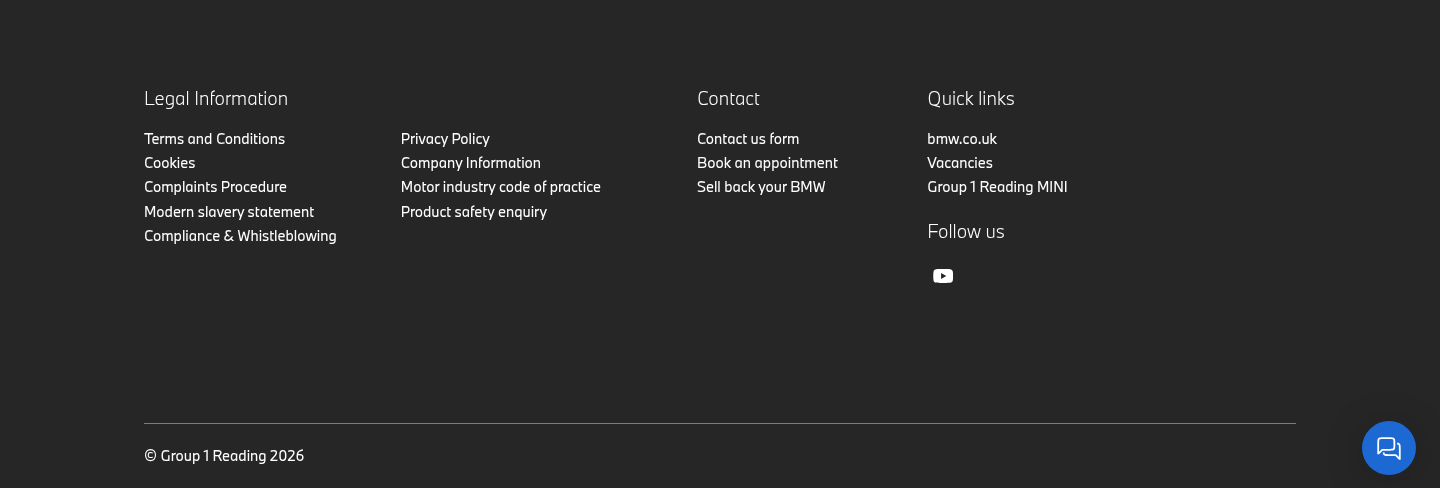
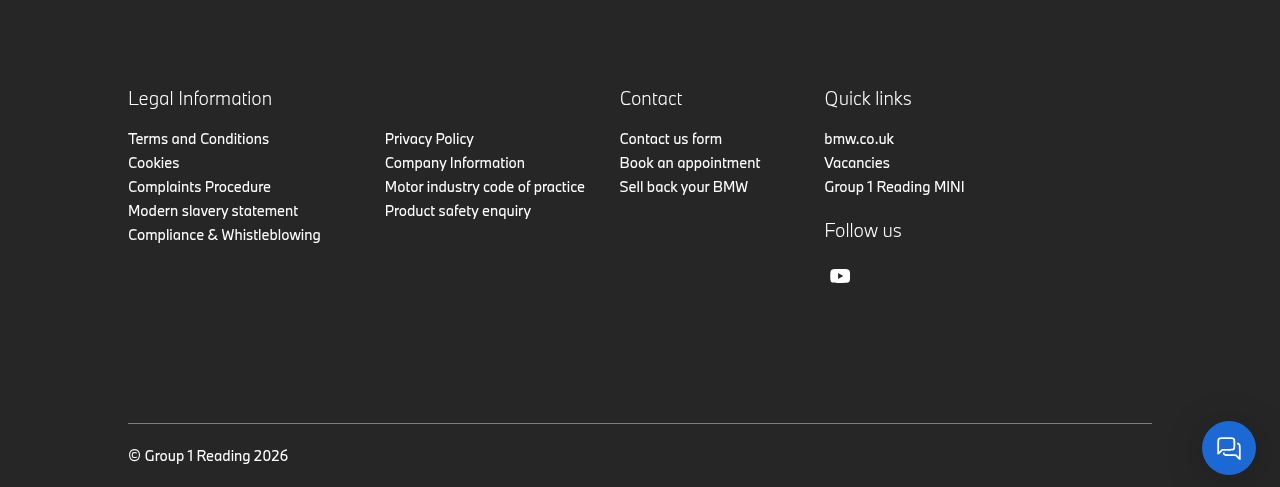
Add footer, hero blocks
Automated migration updates generated by Experience Modernization Agent.

Changed files (8):
- blocks/footer/footer.css
- blocks/hero/hero.css
- fonts/BMWTypeNextLatin-Light.woff2
- footer-updated.png
- hero-bmw-font.png
- migrated-footer.png
- original-footer.png
- styles/styles.css

diff --git a/blocks/footer/footer.css b/blocks/footer/footer.css
@@ -44,10 +44,16 @@ footer .footer .section:first-child .default-content-wrapper > ul {
 footer .footer .section:first-child .default-content-wrapper > ul > li {
   padding: 0 0 32px;
   box-sizing: border-box;
+  font-family: var(--heading-font-family);
   font-size: 18px;
-  font-weight: 300;
+  font-weight: 400;
   line-height: 1.2;
   color: #fff;
+}
+
+/* reset font for sub-list items back to body font */
+footer .footer .section:first-child .default-content-wrapper > ul > li > ul {
+  font-family: var(--body-font-family);
 }
 
 /* sub-lists inside each column */

diff --git a/blocks/hero/hero.css b/blocks/hero/hero.css
@@ -21,9 +21,9 @@
   max-width: 600px;
   margin: 0 0 0.25em;
   color: #fff;
-  font-family: var(--heading-font-family);
+  font-family: BMWTypeNextLatin-Light, var(--heading-font-family);
   font-size: 32px;
-  font-weight: 300;
+  font-weight: 400;
   line-height: 1.2;
   text-transform: uppercase;
   text-shadow: 0 1px 3px rgb(0 0 0 / 0.3);
@@ -36,6 +36,7 @@
   max-width: 520px;
   margin: 0 0 0.5em;
   color: #fff;
+  font-family: BMWTypeNextLatin-Light, var(--body-font-family);
   font-size: 16px;
   font-weight: 400;
   line-height: 1.5;

diff --git a/styles/styles.css b/styles/styles.css
@@ -54,6 +54,15 @@
   --content-max-width: 1200px;
 }
 
+/* BMW proprietary font */
+@font-face {
+  font-family: BMWTypeNextLatin-Light;
+  src: url('/fonts/BMWTypeNextLatin-Light.woff2') format('woff2');
+  font-weight: 300;
+  font-style: normal;
+  font-display: swap;
+}
+
 /* fallback fonts */
 @font-face {
   font-family: roboto-condensed-fallback;
